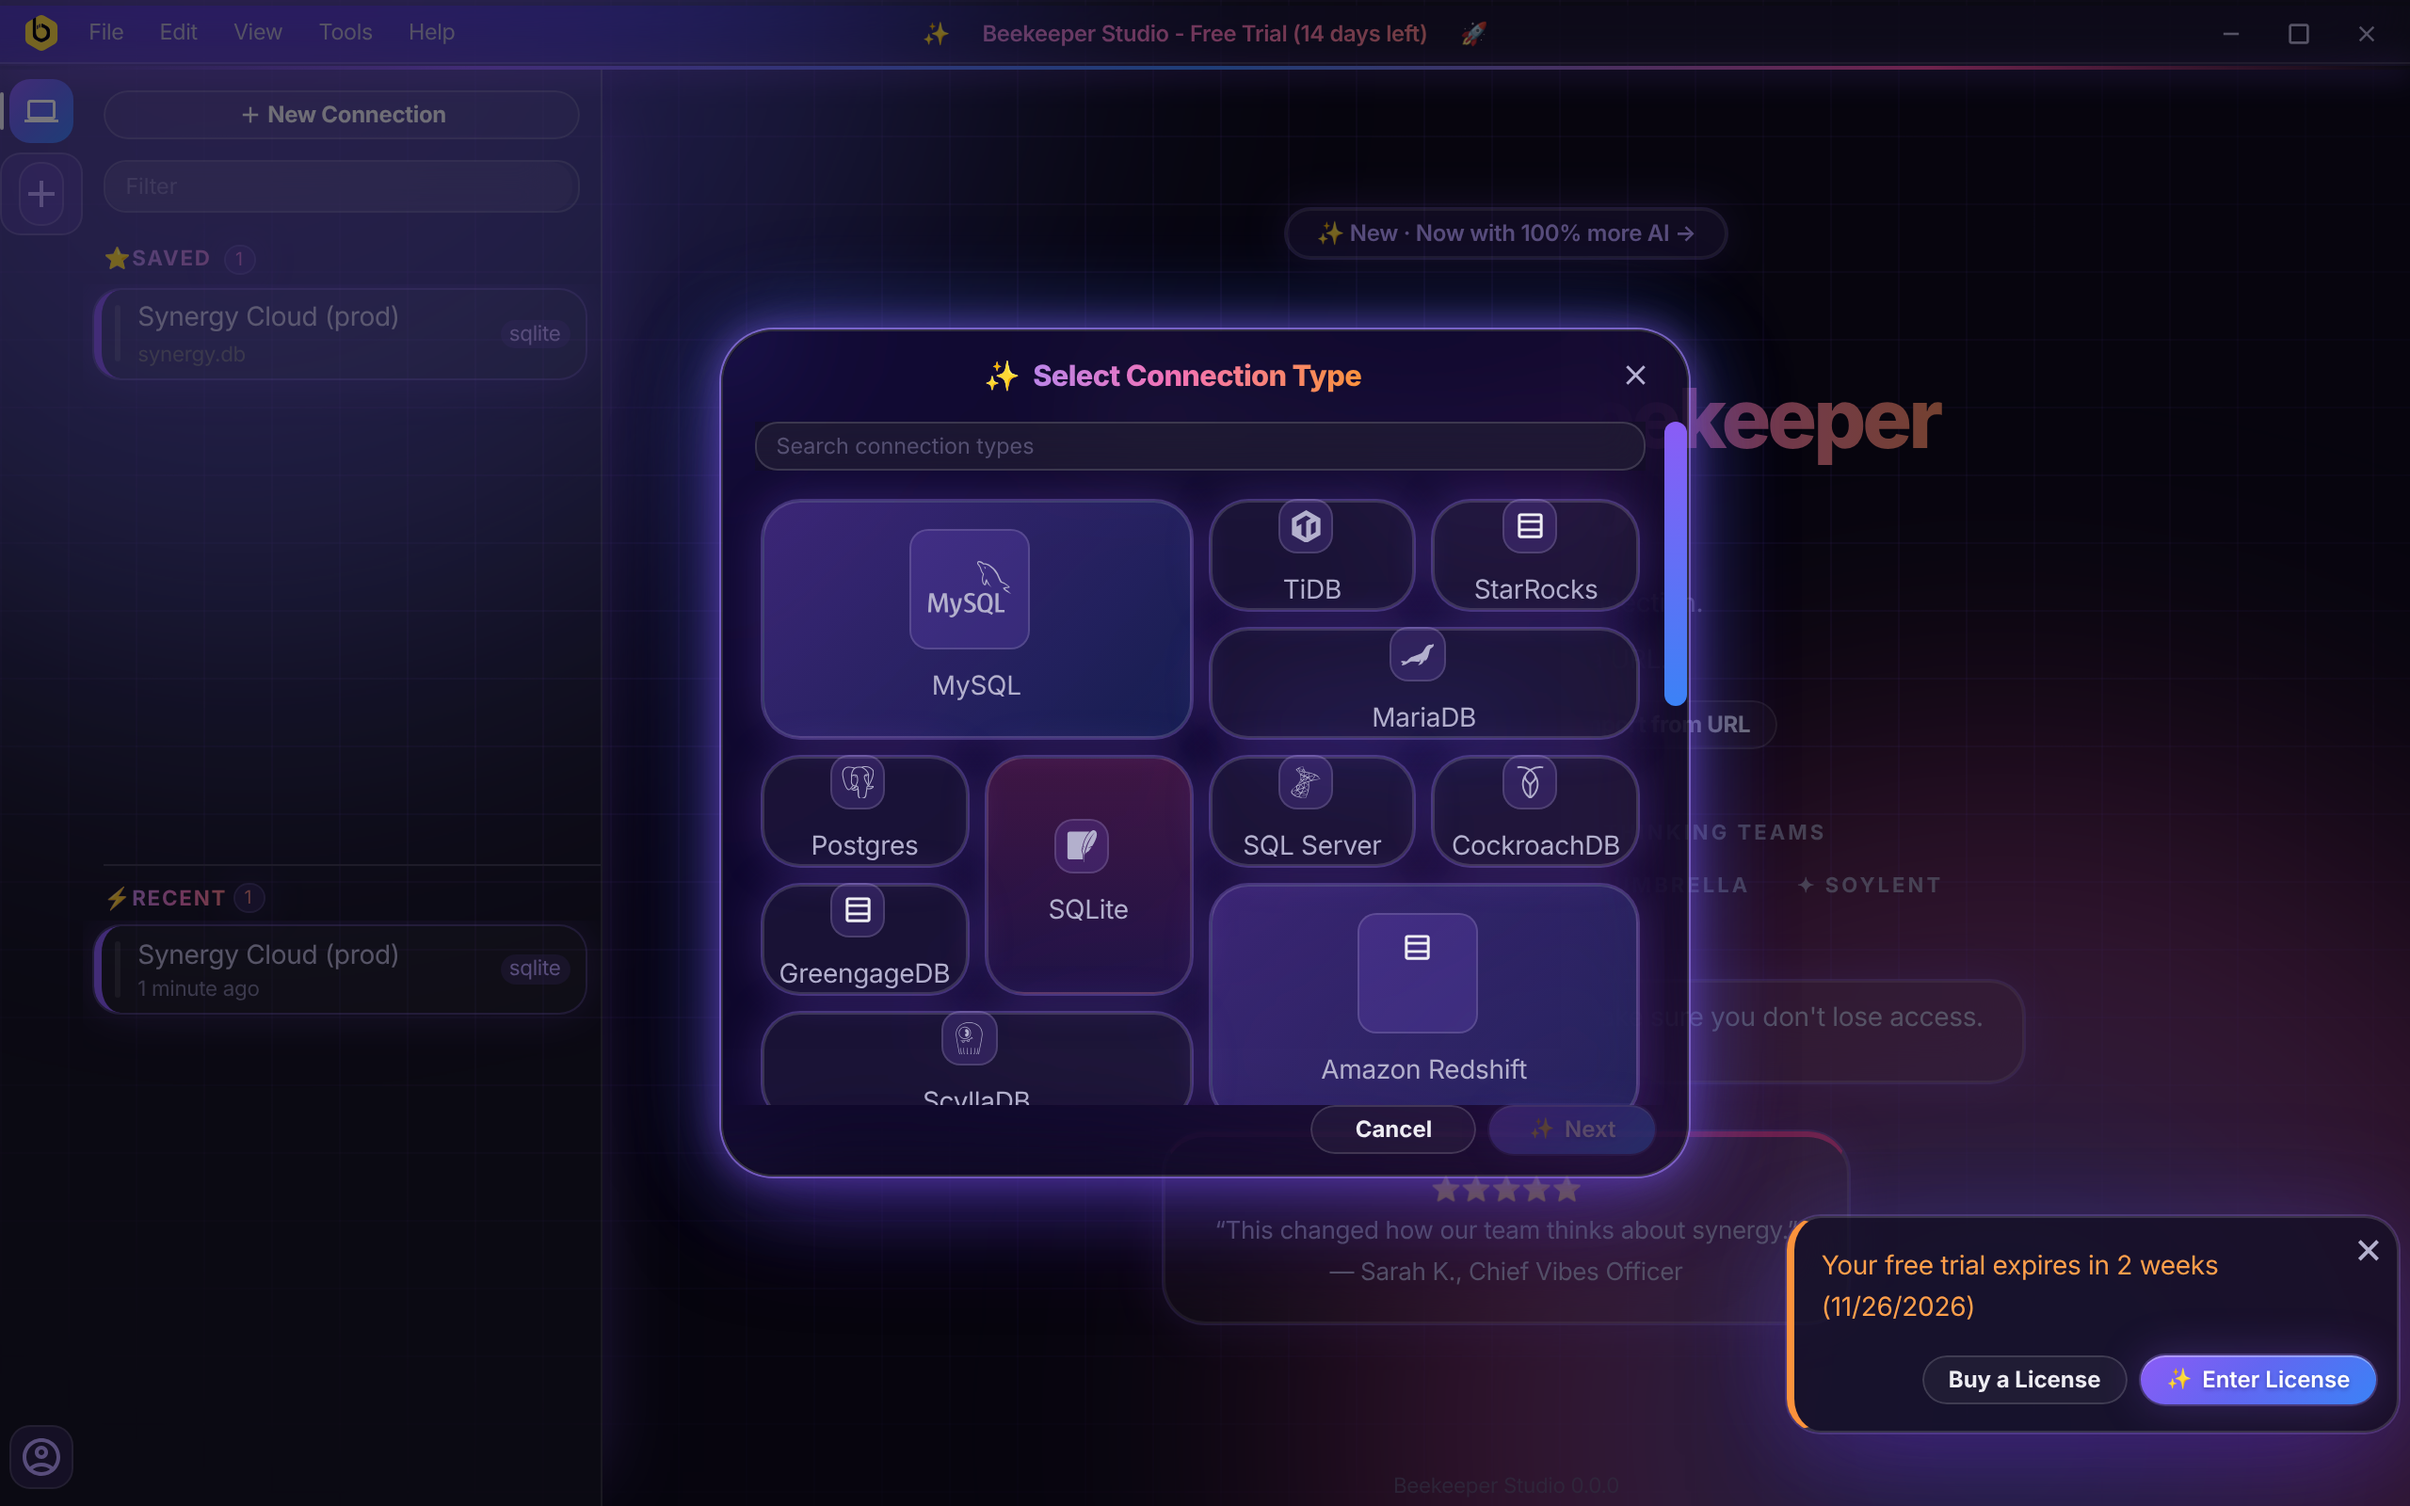
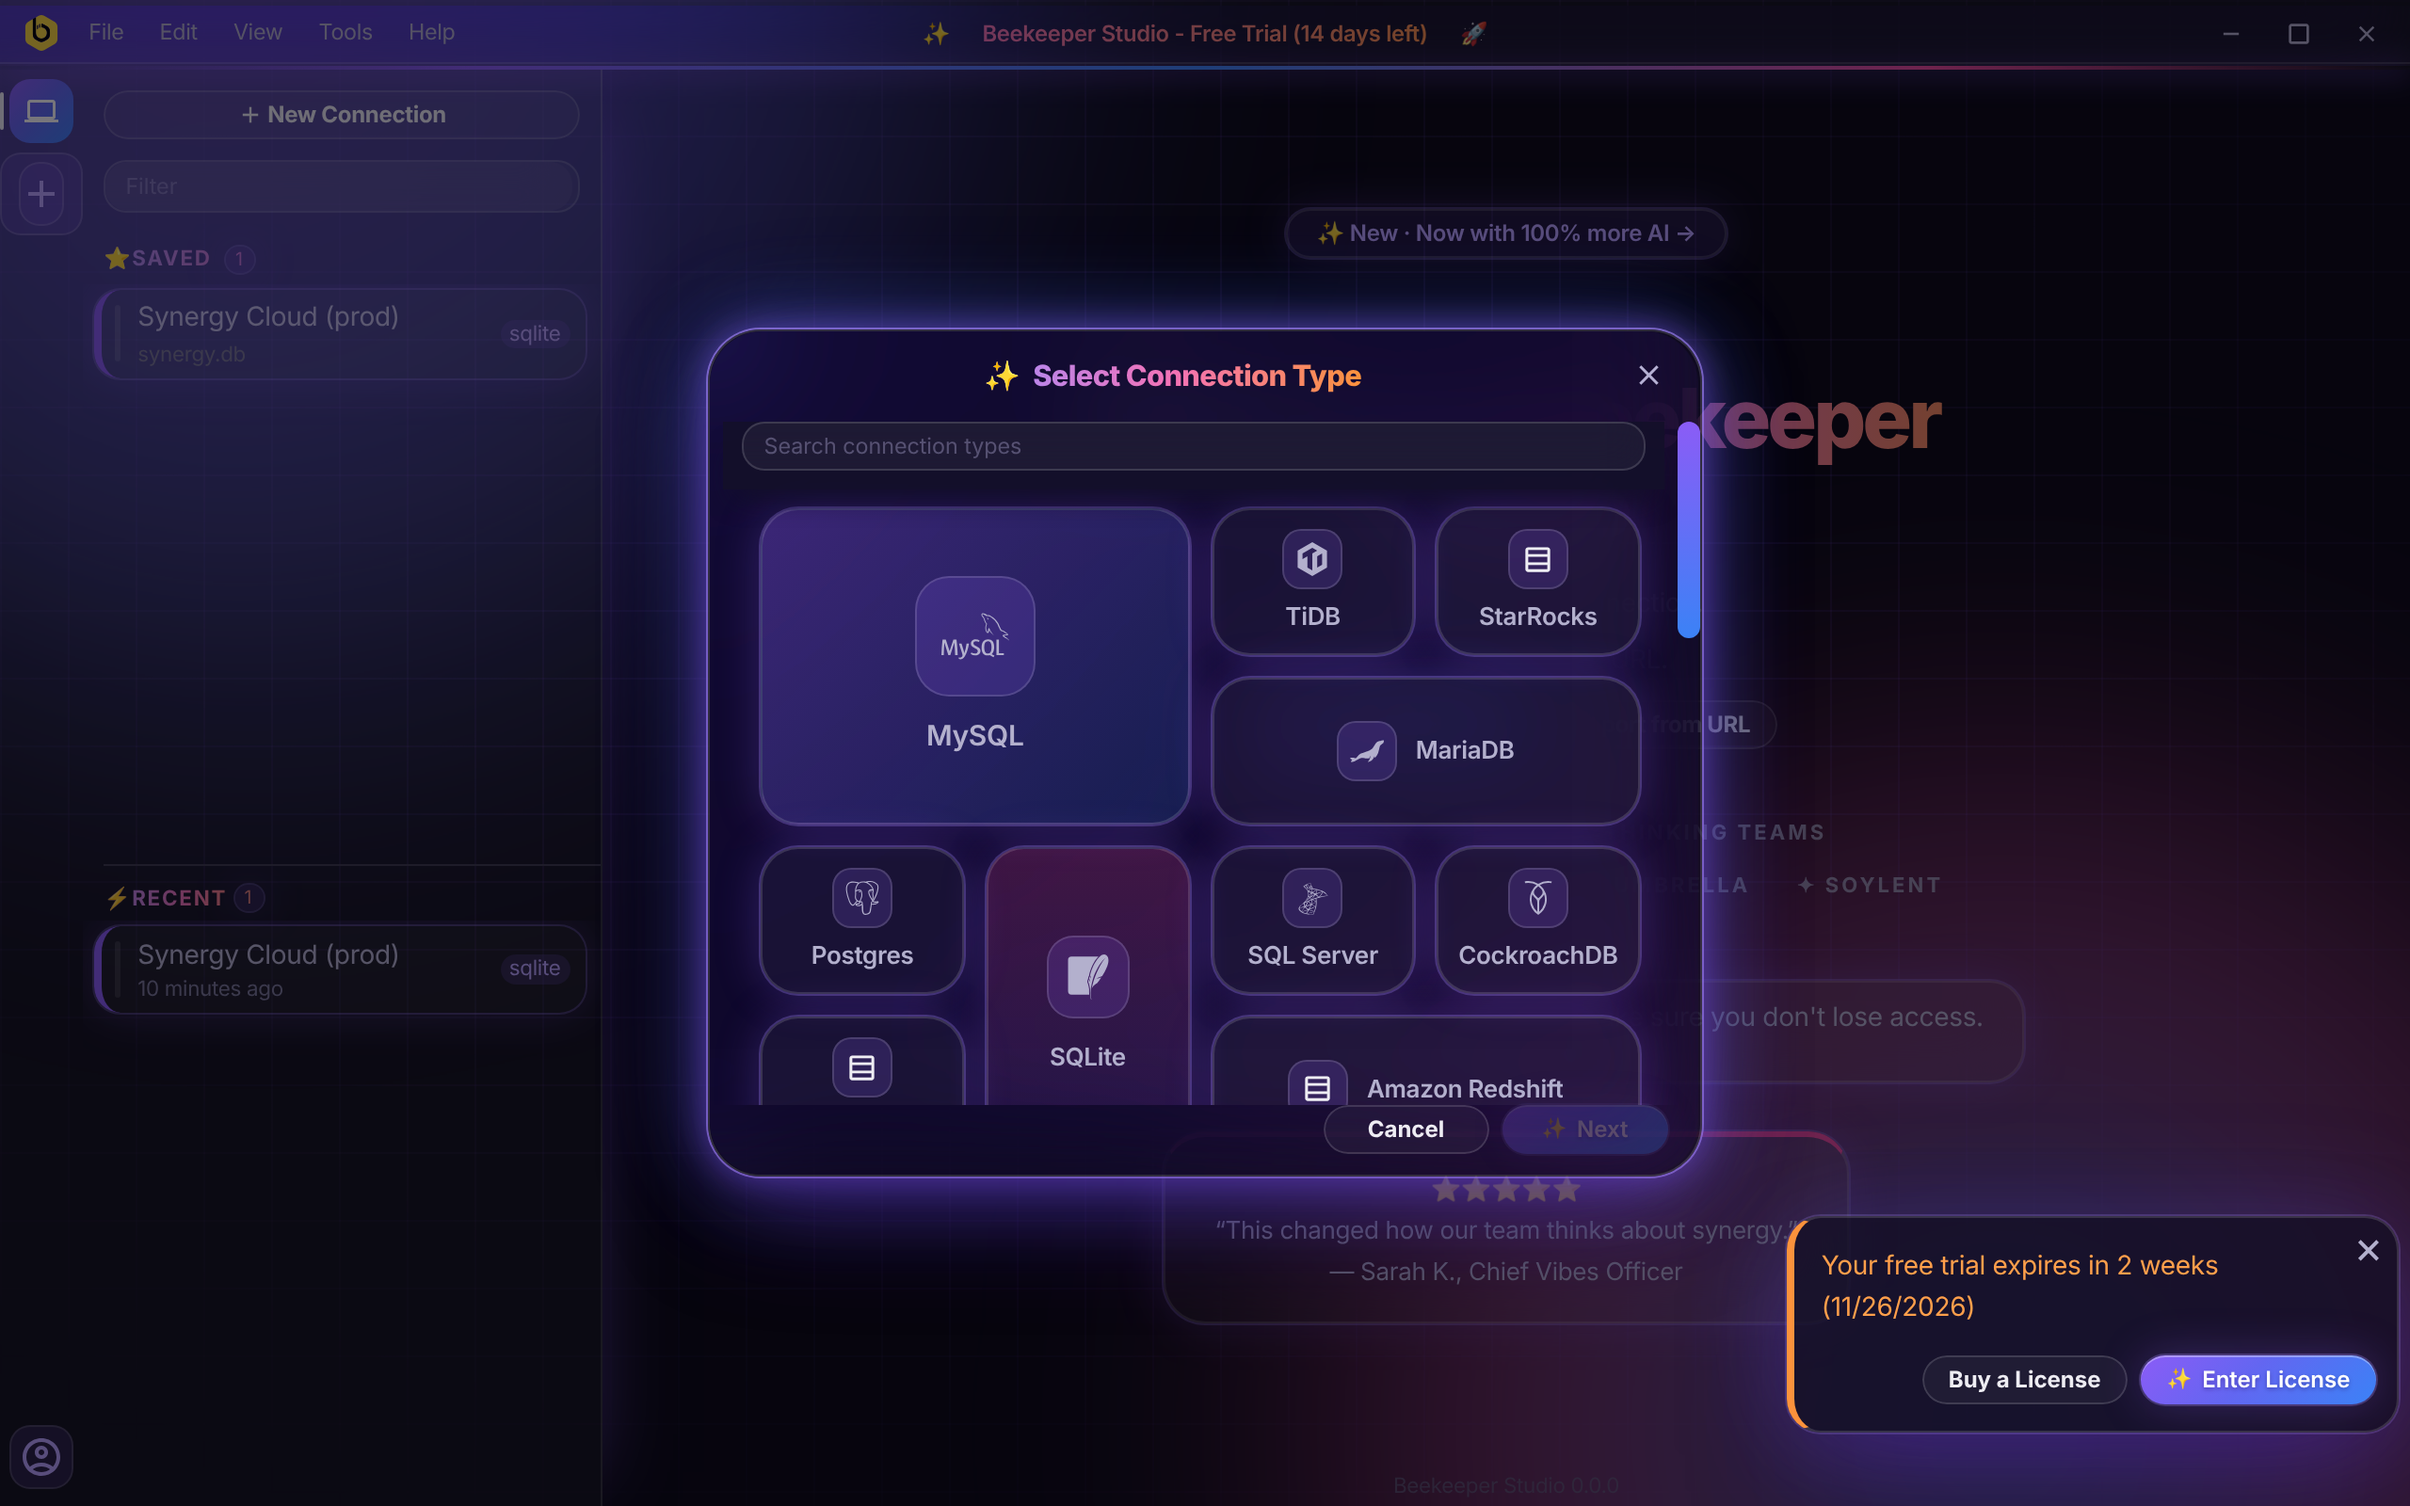
Rework connection type picker grid
Claude-Session: https://claude.ai/code/session_015vEz2QdCW5dkt15ofB8vya

Changed region(s): [[0.2812, 0.2188, 0.7188, 0.7812]]

diff --git a/style.css b/style.css
@@ -1267,63 +1267,87 @@ input[type="password"]:focus {
 .connection-types {
   display: grid !important;
   grid-template-columns: repeat(4, minmax(0, 1fr));
-  grid-auto-rows: 58px;
+  grid-auto-rows: 78px;
   grid-auto-flow: dense;
-  gap: 10px;
-  padding: 6px 4px 10px;
+  gap: 12px;
+  /* Room for the glow and the hover lift, which the scroll area would clip. */
+  padding: 10px 10px 16px;
 }
 
 .connection-types .connection-type {
+  position: relative;
+  box-sizing: border-box;
   display: flex !important;
   flex-direction: column;
   align-items: center;
   justify-content: center;
   gap: 6px;
+  min-width: 0;
   height: auto !important;
-  padding: 8px !important;
+  margin: 0 !important;
+  padding: 8px 10px !important;
+  overflow: hidden;
   text-align: center;
   border-radius: 20px !important;
   border: 1px solid var(--aip-glass-border);
   background: var(--aip-glass);
   box-shadow: var(--aip-glow-soft);
   transition: transform 0.45s var(--aip-ease), box-shadow 0.45s var(--aip-ease),
-    background 0.45s var(--aip-ease);
+    border-color 0.45s var(--aip-ease);
   animation: aip-fade-up 0.6s var(--aip-ease) backwards;
 }
 
-.connection-types .connection-type:nth-child(7n + 1) {
+.connection-types .connection-type .name {
+  max-width: 100%;
+  height: auto !important;
+  line-height: 1.25 !important;
+  font-size: 13px;
+  font-weight: 600;
+  overflow: hidden;
+  text-overflow: ellipsis;
+  white-space: nowrap;
+}
+
+/* The search box stays pinned while tiles scroll, so it needs a solid backing. */
+.base-modal-body > .toolbar:has(+ .connection-types) {
+  z-index: 2;
+  margin: 0 -10px;
+  padding: 0 10px 10px;
+  background: var(--aip-menu-bg) !important;
+  box-shadow: 0 10px 14px -6px var(--aip-menu-bg);
+}
+
+/* The mosaic: a hero tile, a wide tile and a tall tile in every run of ten. */
+.connection-types .connection-type:nth-child(10n + 1) {
   grid-column: span 2;
   grid-row: span 2;
+  gap: 12px;
   background: linear-gradient(135deg, rgba(139, 92, 246, 0.35), rgba(59, 130, 246, 0.18));
 }
 
-.connection-types .connection-type:nth-child(7n + 4) {
+.connection-types .connection-type:nth-child(10n + 4),
+.connection-types .connection-type:nth-child(10n + 8) {
   grid-column: span 2;
+  flex-direction: row;
+  gap: 10px;
 }
 
-.connection-types .connection-type:nth-child(7n + 6) {
+.connection-types .connection-type:nth-child(10n + 6) {
   grid-row: span 2;
+  gap: 12px;
   background: linear-gradient(180deg, rgba(236, 72, 153, 0.22), rgba(139, 92, 246, 0.12));
 }
 
-.connection-types .connection-type:nth-child(7n + 1) .database-icon {
-  width: 44px !important;
-  height: 44px !important;
-  padding: 10px !important;
+.connection-types .connection-type:hover {
+  transform: translateY(-3px);
+  box-shadow: var(--aip-glow);
 }
 
-.connection-types .connection-type:nth-child(7n + 1) .database-icon svg {
-  width: 100%;
-  height: 100%;
-}
-
-.connection-types .connection-type:hover,
 .connection-types .connection-type:has(input:checked),
 .connection-types .connection-type.active,
 .connection-types .connection-type.selected {
-  transform: scale(1.05);
-  box-shadow: var(--aip-glow);
-  background: var(--aip-tint);
+  border-color: var(--primary-9);
+  box-shadow: var(--aip-glow), inset 0 0 0 1px var(--primary-9);
 }
 
 .connection-types .connection-type input {
@@ -1334,11 +1358,41 @@ input[type="password"]:focus {
 
 /* Trope 18 */
 .connection-types .database-icon {
-  box-sizing: content-box;
-  padding: 6px;
+  flex: none;
+  box-sizing: border-box;
+  display: flex !important;
+  align-items: center;
+  justify-content: center;
+  width: 32px !important;
+  height: 32px !important;
+  margin: 0 !important;
+  padding: 7px;
   border-radius: 10px;
   background: var(--aip-tint);
   box-shadow: inset 0 0 0 1px var(--aip-glass-border);
+}
+
+.connection-types .database-icon svg {
+  width: 100%;
+  height: 100%;
+}
+
+.connection-types .connection-type:nth-child(10n + 1) .database-icon {
+  width: 64px !important;
+  height: 64px !important;
+  padding: 14px;
+  border-radius: 18px;
+}
+
+.connection-types .connection-type:nth-child(10n + 6) .database-icon {
+  width: 44px !important;
+  height: 44px !important;
+  padding: 10px;
+  border-radius: 14px;
+}
+
+.connection-types .connection-type:nth-child(10n + 1) .name {
+  font-size: 15px;
 }
 
 /* ==========================================================================
